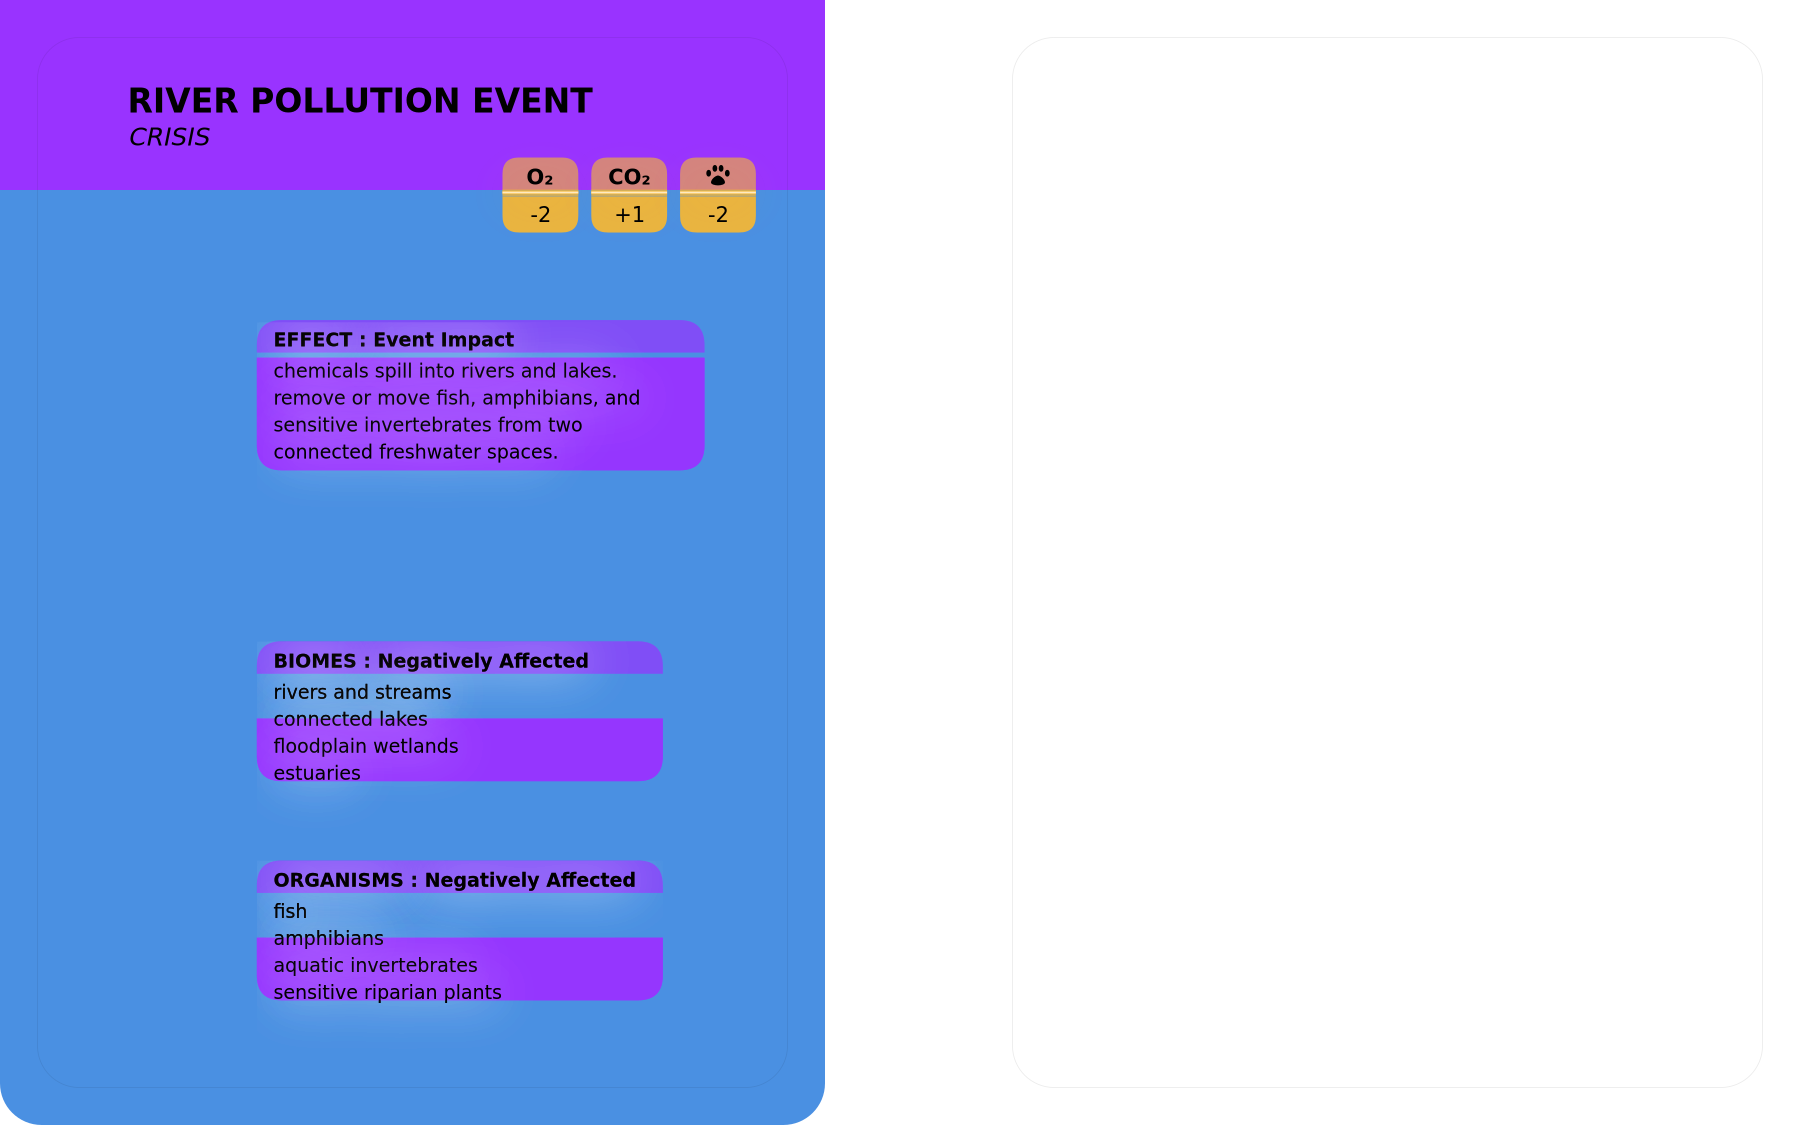
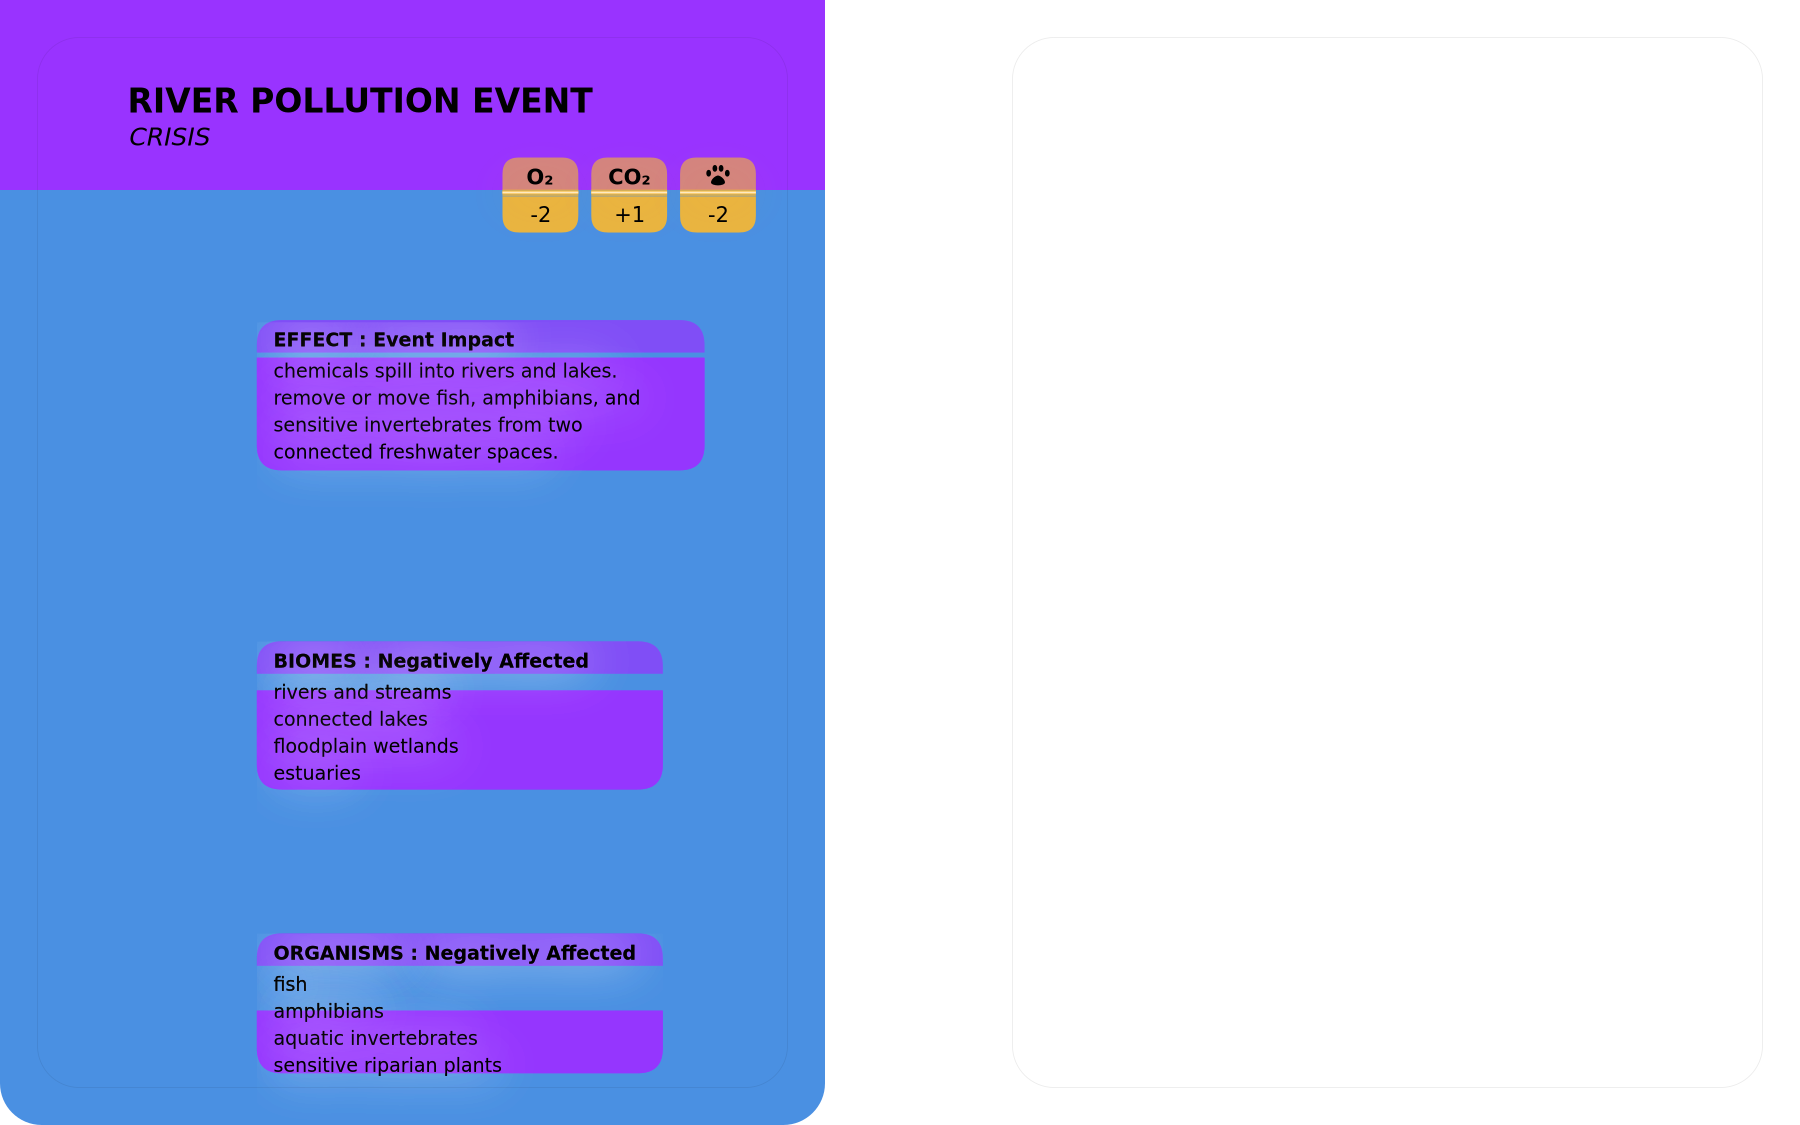
feat: Enhance Biomes field height calculation and adjust positioning in drawFieldRow function

Changed region(s): [[0.1244, 0.7467, 0.3733, 0.9644], [0.1244, 0.5911, 0.3733, 0.6533], [0.1556, 0.6844, 0.3733, 0.7156]]

diff --git a/game/lib/event-cards/draw-field-row.js b/game/lib/event-cards/draw-field-row.js
@@ -78,6 +78,9 @@ module.exports = function drawFieldRow(ctx, { textX, rowY, scale, color, titleCo
     if (label === 'Effect') {
       // Effect field: double the required height to cover all description text
       bottomBoxH = Math.max(requiredHeight * 2, ((2 * scale) + (wrappedSubLines.length * (subSize + lineGap)) - lineGap + (2 * scale)) * 2);
+    } else if (label === 'Biomes') {
+      // Biomes field: use required height or calculated height, whichever is larger, plus 17.5px extra (5px bottom + 12.5px top)
+      bottomBoxH = Math.max(requiredHeight, ((wrappedSubLines.length * (subSize + lineGap)) - lineGap + (4 * scale) + 2 * boxPadY)) + (17.5 * scale);
     } else {
       // Other fields: use required height or calculated height, whichever is larger
       bottomBoxH = Math.max(requiredHeight, ((wrappedSubLines.length * (subSize + lineGap)) - lineGap + (4 * scale) + 2 * boxPadY));
@@ -105,7 +108,9 @@ module.exports = function drawFieldRow(ctx, { textX, rowY, scale, color, titleCo
       if (needsAdjustment) {
         bottomY += (6 * scale);
       }
-    } else if (label === 'Biomes' || label === 'Organisms') {
+    } else if (label === 'Biomes') {
+      bottomY = rowY - boxPadY + topBoxH - (30 * scale) + (1 * scale) + (15 * scale) - (15.5 * scale);
+    } else if (label === 'Organisms') {
       bottomY = rowY - boxPadY + topBoxH - (30 * scale) + (1 * scale) + (15 * scale);
     } else {
       bottomY = rowY - boxPadY + topBoxH;
